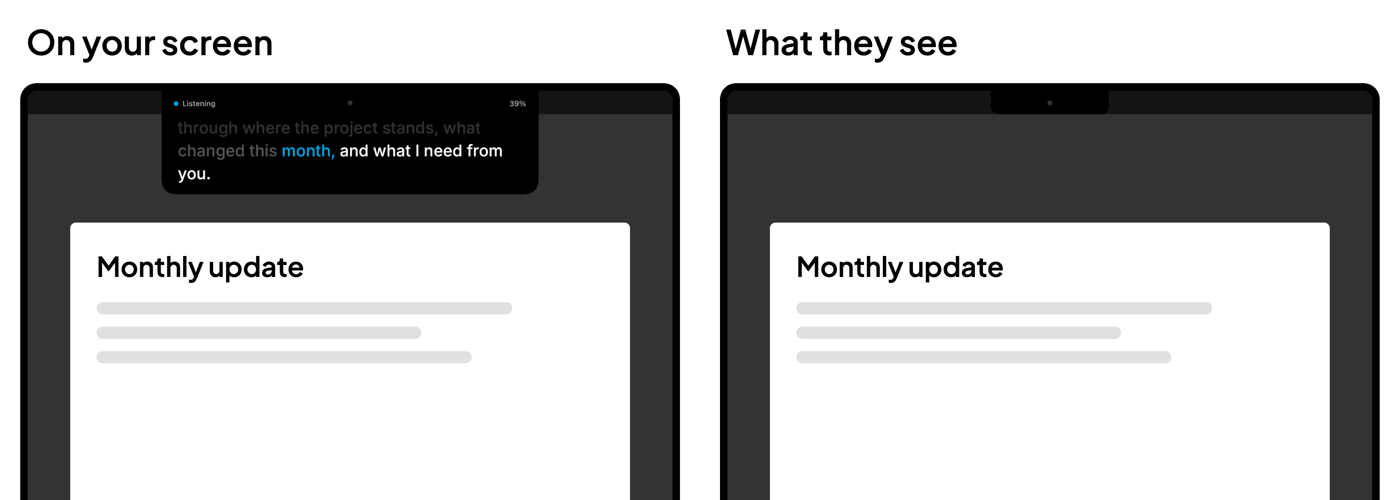
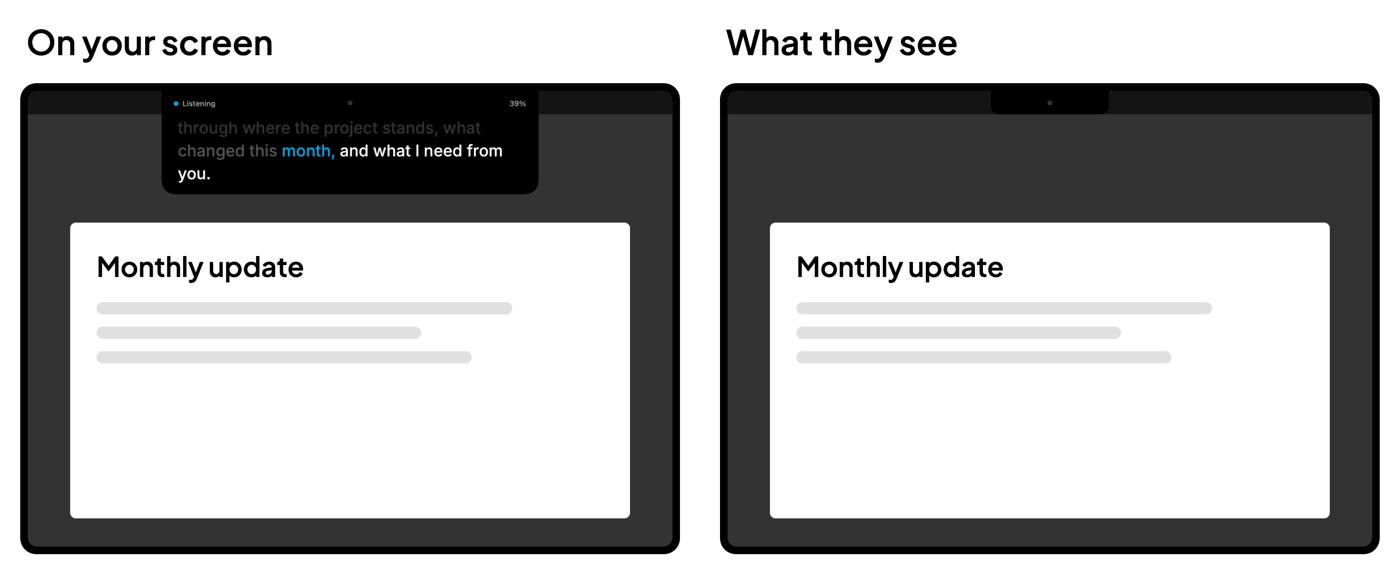
Page: full share picture, sharper video poster

Changed region(s): [[0.0, 0.03, 1.0, 0.75], [0.5529, 0.39, 0.9521, 0.75], [0.0, 0.9, 1.0, 1.0]]

diff --git a/site/index.html b/site/index.html
@@ -61,7 +61,7 @@
   </div>
   <div class="row">
     <div><h3>It's built to stay out of your screen share</h3><p>The strip asks macOS to leave it out of screen capture, so people see your slides and not your script. Call apps and macOS versions can differ, so do one test share before a big call.</p></div>
-    <figure><img src="assets/pictures/share.png" alt="Two screens side by side. On your screen the strip shows above the slides. What they see is only the slides." loading="lazy" width="1400" height="500"><figcaption>An illustration of how it's designed to work.</figcaption></figure>
+    <figure><img src="assets/pictures/share.png" alt="Two screens side by side. On your screen the strip shows above the slides. What they see is only the slides." loading="lazy" width="1400" height="565"><figcaption>An illustration of how it's designed to work.</figcaption></figure>
   </div>
   <div class="row">
     <div><h3>Bring the script you already have</h3><p>Open plain text, Markdown, Word, RTF or OpenDocument files, or just paste your script in. Slide decks saved as HTML with speaker notes load a slide at a time.</p></div>
